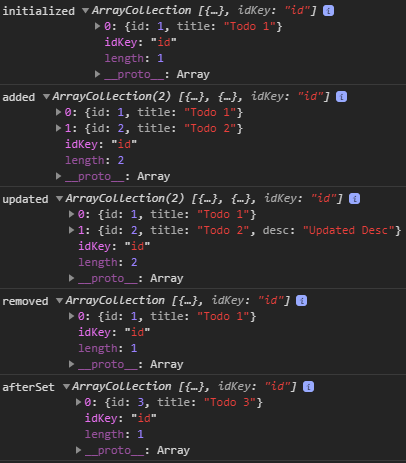
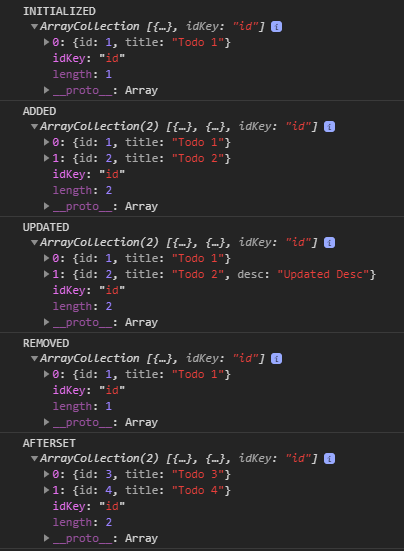
Update Readme and example

Changed region(s): [[0.0, 0.0, 1.0, 0.9978], [0.7129, 0.0, 0.8317, 0.0605], [0.0891, 0.9676, 0.1188, 0.9978]]

diff --git a/projects/ts-array-collection-app/src/app/app.component.ts b/projects/ts-array-collection-app/src/app/app.component.ts
@@ -16,31 +16,43 @@ export class AppComponent {
   title = 'ts-array-collection-app';
 
   constructor() {
+    // Create new ArrayCollection
     const initialized: ArrayCollection<Todo> = new ArrayCollection({
       id: 1,
       title: 'Todo 1'
     });
-    console.log('initialized', initialized);
 
+    // Add new item
     const added: ArrayCollection<Todo> = initialized.add({
       id: 2,
       title: 'Todo 2'
     });
-    console.log('added', added);
 
+    // Update item by Id
     const updated: ArrayCollection<Todo> = added.update(2, {
       desc: 'Updated Desc'
     });
-    console.log('updated', updated);
 
+    // Remove item by Id
     const removed: ArrayCollection<Todo> = updated.remove(2);
-    console.log('removed', removed);
 
-    const afterSet: ArrayCollection<Todo> = updated.set([{
-      id: 3,
-      title: 'Todo 3'
-    }]);
-    console.log('afterSet', afterSet);
+    // Replace current collection with the provided collection
+    const afterSet: ArrayCollection<Todo> = updated.set([
+      {
+        id: 3,
+        title: 'Todo 3'
+      },
+      {
+        id: 4,
+        title: 'Todo 4'
+      }
+    ]);
+
+    console.log('INITIALIZED\n', initialized);
+    console.log('ADDED\n', added);
+    console.log('UPDATED\n', updated);
+    console.log('REMOVED\n', removed);
+    console.log('AFTERSET\n', afterSet);
   }
 }
 

diff --git a/README.md b/README.md
@@ -6,6 +6,7 @@
 ## Features
 - ArrayCollection is still a native Javascript Array under the hood (all Array methods stay intact, ES6 Array spread syntax still works)
 - Every ArrayCollection method returns a new ArrayCollection/Array which is useful if you need to work with immutable data
+- The original ArrayCollection/Array it **not** mutated by performing the ArrayCollection methods.
 
 ## Usage
 
@@ -17,7 +18,7 @@ Update Arrays with following methods:
 
 `add(item: T): ArrayCollection<T>`
 
-`update(item: T): ArrayCollection<T>`
+`update(id: string | number, item: Partial<T>): ArrayCollection<T>`
 
 `remove(id: string | number): ArrayCollection<T>`
 
@@ -25,31 +26,43 @@ Update Arrays with following methods:
 
 ## Example
 ```
-    const initialized: ArrayCollection<Todo> = new ArrayCollection({
-      id: 1,
-      title: 'Todo 1'
-    });
-    console.log('initialized', initialized);
+// Create new ArrayCollection
+const initialized: ArrayCollection<Todo> = new ArrayCollection({
+  id: 1,
+  title: 'Todo 1'
+});
 
-    const added: ArrayCollection<Todo> = initialized.add({
-      id: 2,
-      title: 'Todo 2'
-    });
-    console.log('added', added);
+// Add new item
+const added: ArrayCollection<Todo> = initialized.add({
+  id: 2,
+  title: 'Todo 2'
+});
 
-    const updated: ArrayCollection<Todo> = added.update(2, {
-      desc: 'Updated Desc'
-    });
-    console.log('updated', updated);
+// Update item by Id
+const updated: ArrayCollection<Todo> = added.update(2, {
+  desc: 'Updated Desc'
+});
 
-    const removed: ArrayCollection<Todo> = updated.remove(2);
-    console.log('removed', removed);
+// Remove item by Id
+const removed: ArrayCollection<Todo> = updated.remove(2);
 
-    const afterSet: ArrayCollection<Todo> = updated.set([{
-      id: 3,
-      title: 'Todo 3'
-    }]);
-    console.log('afterSet', afterSet);
+// Replace current collection with the provided collection
+const afterSet: ArrayCollection<Todo> = updated.set([
+  {
+    id: 3,
+    title: 'Todo 3'
+  },
+  {
+    id: 4,
+    title: 'Todo 4'
+  }
+]);
+
+console.log('INITIALIZED\n', initialized);
+console.log('ADDED\n', added);
+console.log('UPDATED\n', updated);
+console.log('REMOVED\n', removed);
+console.log('AFTERSET\n', afterSet);
 ```
 
 Console output:
@@ -57,6 +70,7 @@ Console output:
 ![Example](.github/images/console.png)
 
 ArrayCollection uses the `id` property of an item to find the correct item e.g. for update/remove.
+
 The default idKey can be adjusted:
 
 `const collection: ArrayCollection = new ArrayCollection().setIdKey('fancyId')`
